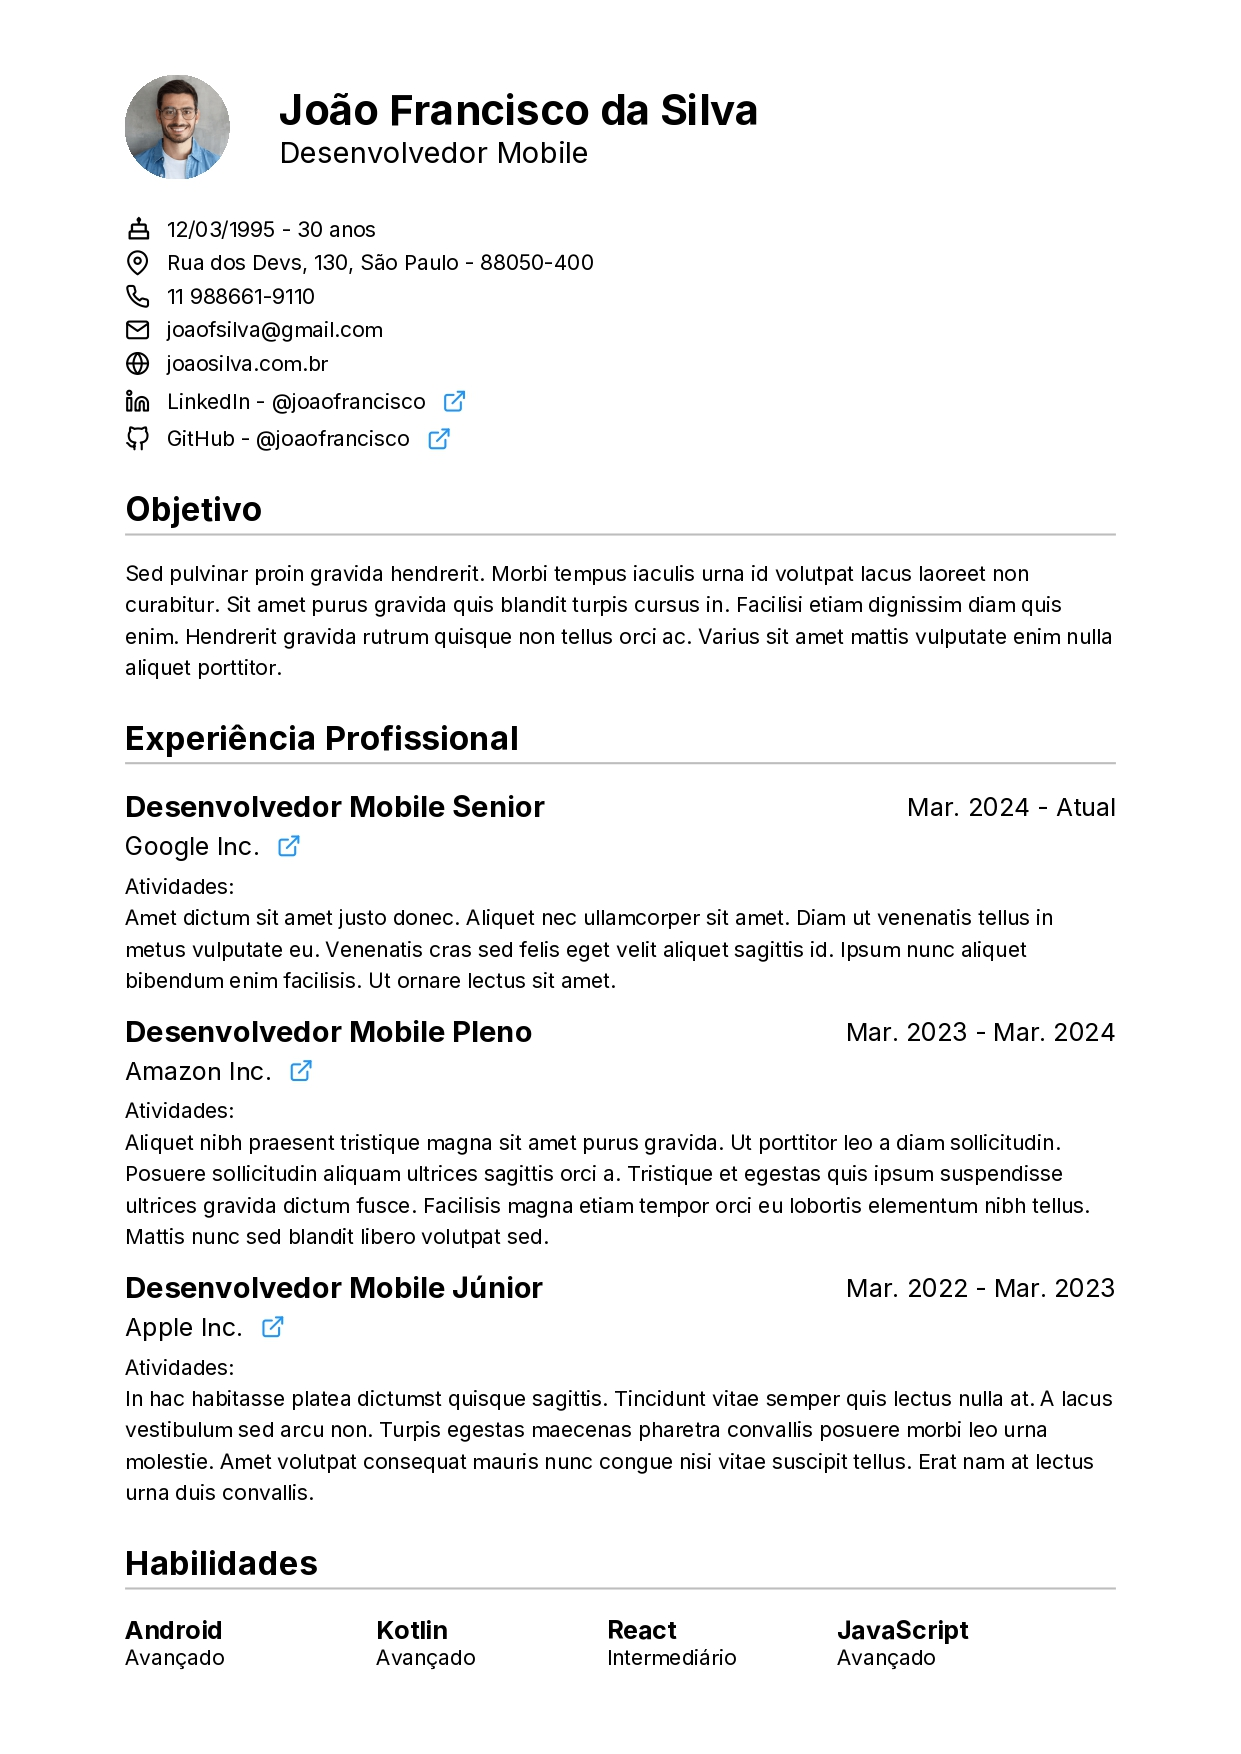
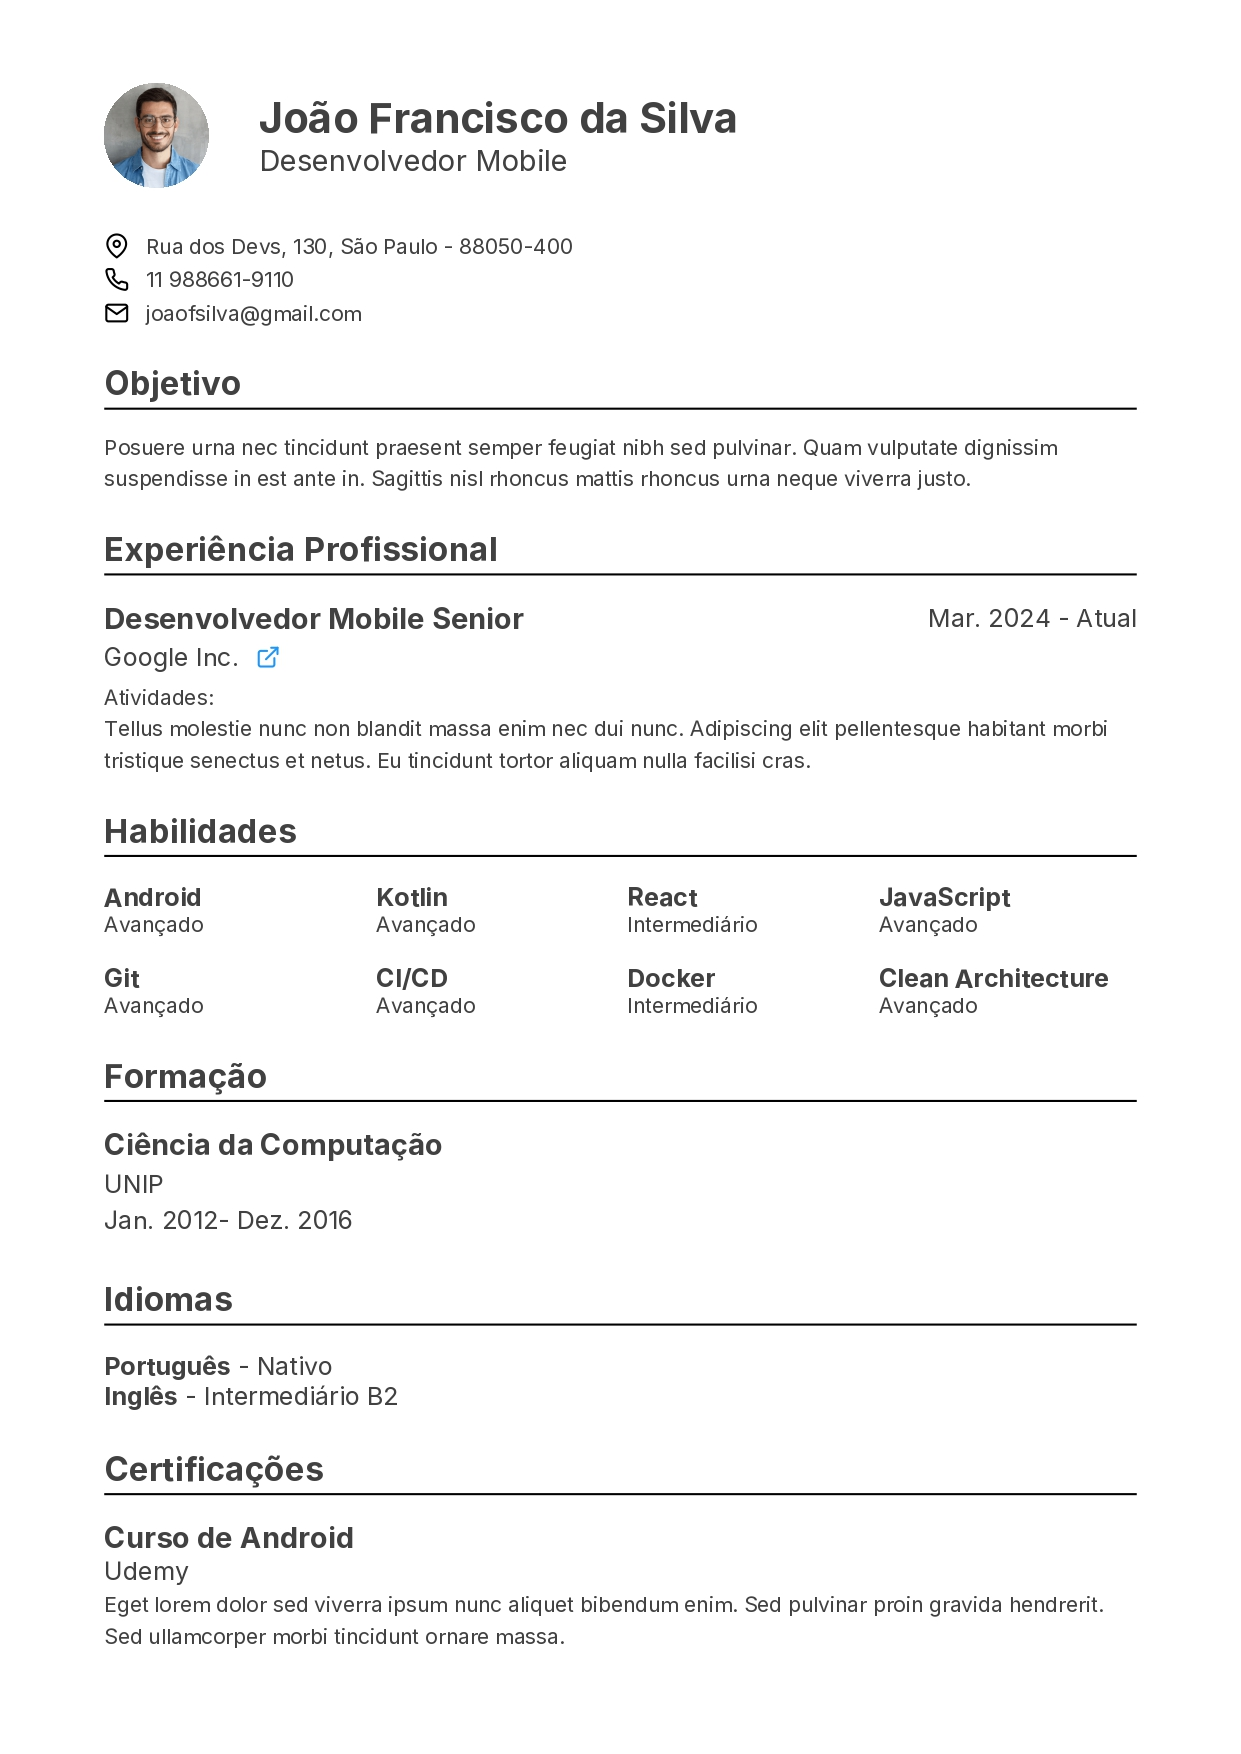
refactor: basic theme style updates

diff --git a/lib/domain/templates/basic/basic.dart b/lib/domain/templates/basic/basic.dart
@@ -150,9 +150,10 @@ class BasicTemplate {
               resume.skills.length,
               (index) {
                 final skill = resume.skills[index];
+                final topPadding = index < 4 ? 0.0 : config.innerSpace;
                 return Container(
-                  width: (pageWidth / 4) - 10,
-                  padding: EdgeInsets.only(top: config.titleSpace, left: index % 4 == 0 ? 0 : 10),
+                  width: (pageWidth / 4),
+                  padding: EdgeInsets.only(top: topPadding, left: index % 4 == 0 ? 0 : 10),
                   child: Column(
                     crossAxisAlignment: CrossAxisAlignment.start,
                     children: [
@@ -325,7 +326,7 @@ class BasicTemplate {
         MultiPage(
           build: (context) => [
             Padding(
-              padding: EdgeInsets.all(config.horizontalMargin),
+              padding: EdgeInsets.symmetric(horizontal: config.horizontalMargin, vertical: config.verticalMargin),
               child: Column(
                 crossAxisAlignment: CrossAxisAlignment.stretch,
                 children: children,
